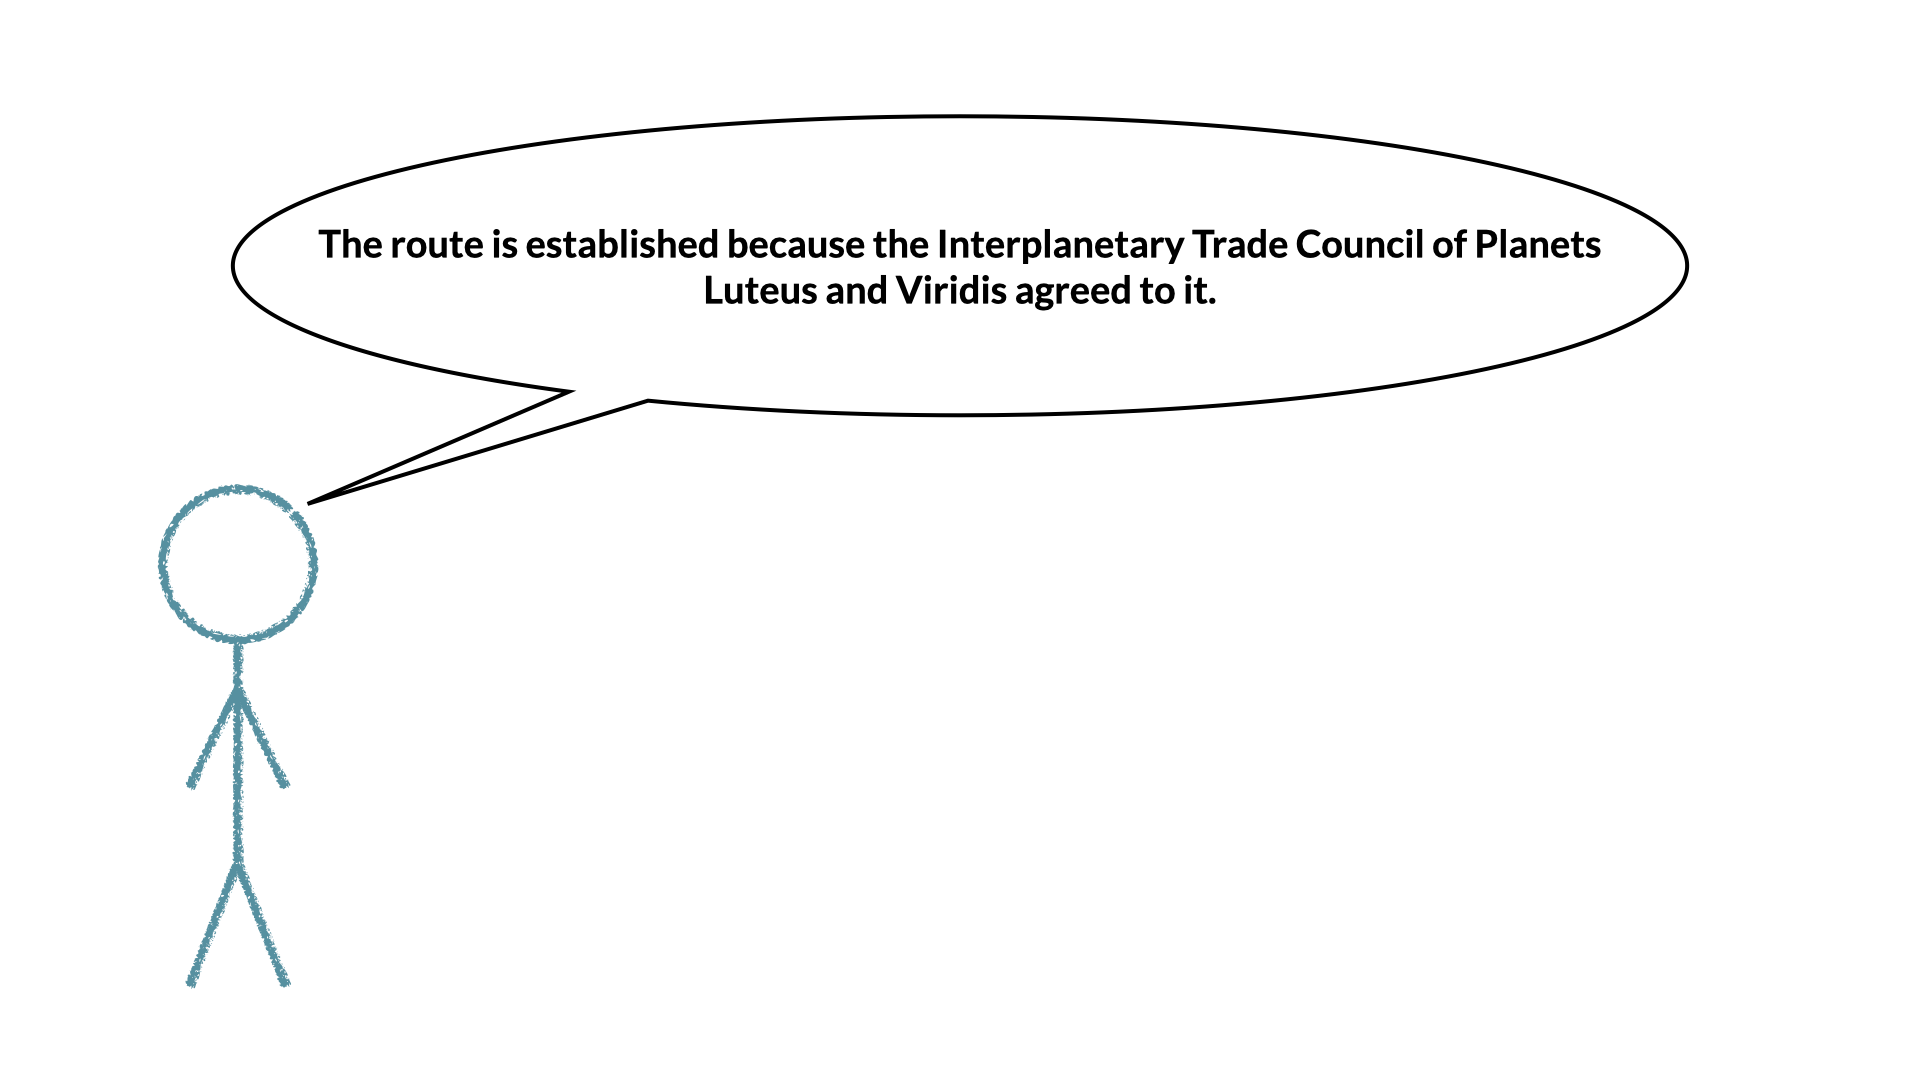
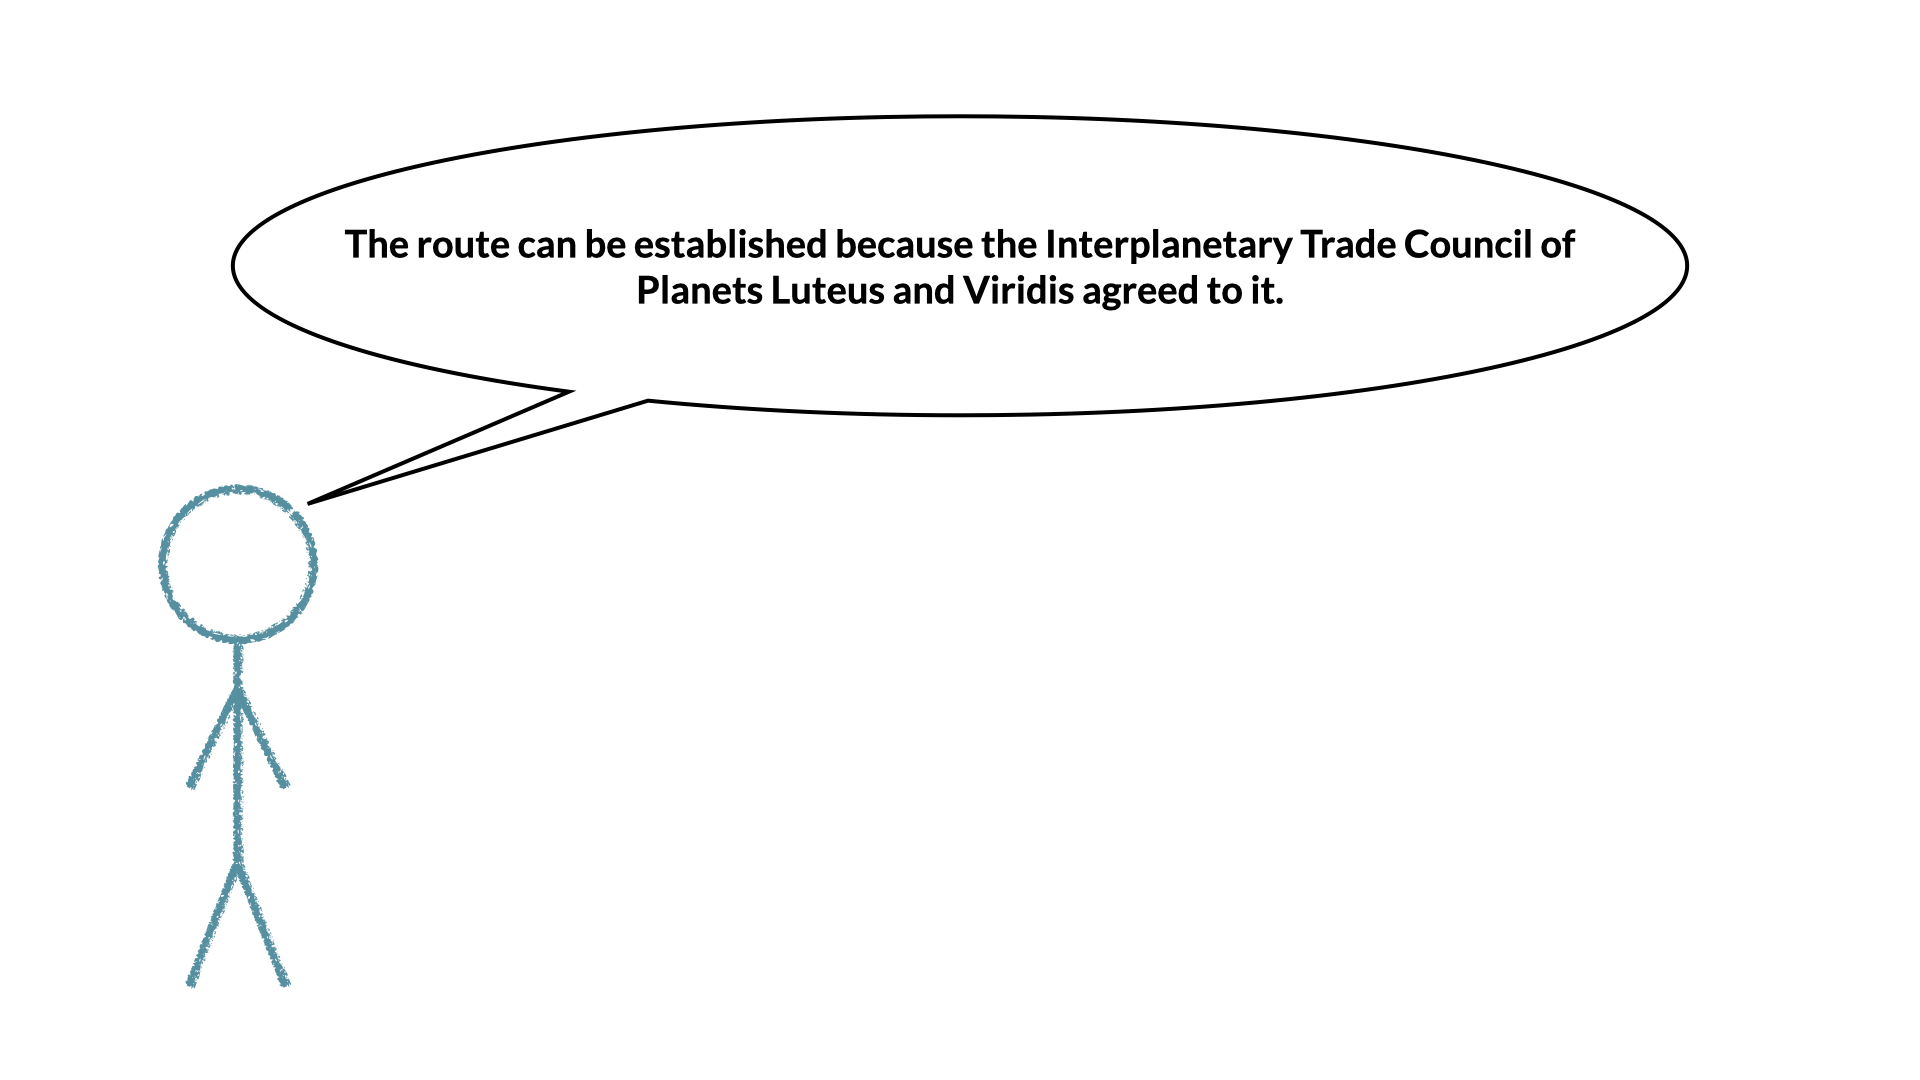
add fixes

Changed region(s): [[0.1562, 0.2139, 0.8438, 0.3056]]

diff --git a/01_Experiments/pretest-01/src/App.vue b/01_Experiments/pretest-01/src/App.vue
@@ -1,7 +1,7 @@
 <template>
   <Experiment title="Plural Cause Pretest 01">
     <InstructionScreen :title="'Welcome'">
-      In this experiment you will ask for your judgement of several statements based on a fictional scenario.
+      In this study, you will be presented with a fictional scenario and asked for your judgement of a sentence.
     </InstructionScreen>
 
     <InstructionScreen>
@@ -14,158 +14,111 @@
       <p>
         This route can only officially be established with approval from the <b>Interplanetary Trade Council of Planets
         Luteus and Viridis</b>.
-        Each planet has a delegate and <b>both must approve</b> the route for it to be authorised.
+        Each planet has a representative and <b>both must approve</b> the route for it to be authorised.
       </p>
 
       <img src="images/council.png"/>
     </InstructionScreen>
 
-
     <template v-for="(trial, i) in comprehension_trials">
-      <Screen>
+      <Screen :key="'comprehension-' + i">
         <Slide>
-          <span style='color:grey'>Remember that the route can only be established with Council approval meaning both members must agree.</span>
+          <div v-if="($magpie.measurements['attempts_' + i] || 0) < 2">
+            <span style='colour:grey'>Remember that the route can only be established with the approval of the Council, meaning both members must agree.</span>
 
+            <p>
+              <img :src="trial.picture"/>
+            </p>
 
-          <p>
-            <img :src="trial.picture"/>
-          </p>
+            <p>
+              Could the trade route be established given these results?
+            </p>
 
-          <p>
-            Could the trade route be established given these results?
-          </p>
+            <ForcedChoiceInput
+                :response.sync="$magpie.measurements['given_response_' + i]"
+                :options="['Yes, it could.','No, it could not.']"
+                @update:response="check_response($magpie.measurements['given_response_' + i], trial.correct_response, i)"/>
 
-          <ForcedChoiceInput
-              :response.sync="$magpie.measurements.comp_response"
-              :options="['Yes, it could.','No, it could not.']"
-              @update:response="$magpie.saveAndNextScreen();"/>
+            <p v-if="$magpie.measurements['attempts_' + i] === 1" style="colour: #B22222; font-weight: bold;">
+              That is incorrect. Please look at the rules at the top of the screen and try again.
+            </p>
+          </div>
+
+          <div v-else style="text-align: center; padding: 20px;">
+            <p>You have answered the comprehension question incorrectly twice.</p>
+            <p><b>Please close the study and click 'Stop Without Completing' on Prolific to return your submission.</b>
+            </p>
+          </div>
 
           <Record
               :data="{
               trial_type : 'comprehension',
-              trial_num : i+1,
+              trial_num : i,
               scenario : trial.scenario,
-              given_response : $magpie.measurements.given_response,
+              given_response : $magpie.measurements['given_response_' + i],
               correct_response: trial.correct_response,
+              failed_comprehension: ($magpie.measurements['attempts_' + i] || 0) >= 2
             }"
           />
-
         </Slide>
       </Screen>
     </template>
-
+    <InstructionScreen>
+      <p>You have passed all comprehension questions! Now we can move onto the main part of the experiment.</p>
+    </InstructionScreen>
 
     <Screen>
       <Slide>
         <p>
-          <p>The day when the new trade route gets decided on finally comes and this is the result:</p>
-          <img src="images/council_yes-yes.png"/>
-          <p>An inhabitant of a third planet in the solar system, Glaucus, describes the result like this:
-          </p>
-          <img :src="granularity === 'coarse' ? 'images/glaucusian_coarse.png' : 'images/glaucusian_fine.png'"/>
+          The long-awaited day of deciding the new trade route finally arrives and here’s the result:
+        </p>
+        <img src="images/council_yes-yes.png"/>
+        <p>An inhabitant of Glaucus, the third planet in this solar system, describes the result like this:
+        </p>
+        <img :src="granularity === 'coarse' ? 'images/glaucusian_coarse.png' : 'images/glaucusian_fine.png'"/>
 
-          <Button v-if="!show_singular"
-                  @click="show_singular = true">
-            Next
-          </Button>
-          <p v-if="show_singular">
-            How likely is that inhabitant of Glaucus to agree with the following statement?
-          </p>
-          <p v-if="show_singular">
-            <b>The route can be established because the representative from {{ singular_cause }} agreed.</b>
-            <RatingInput
-                left="XXX"
-                right="YYY"
-                :response.sync="$magpie.measurements.singular_response"
-            />
-          </p>
+        <Button v-if="!show_singular"
+                @click="show_singular = true">
+          Next
+        </Button>
+        <p v-if="show_singular">
+          How likely is it that this individual would also agree with the following statement?
+        </p>
+        <p v-if="show_singular">
+          <b>The route can be established because the representative from {{ singular_cause }} agreed to it.</b>
+          <RatingInput
+              left="Very unlikely"
+              right="Very likely"
+              :response.sync="$magpie.measurements.singular_response"
+          />
+        </p>
 
-          <p v-if="$magpie.measurements.singular_response > 0">
-            <button @click="$magpie.saveAndNextScreen();">Submit</button>
-          </p>
+        <p v-if="$magpie.measurements.singular_response > 0">
+          <button @click="$magpie.saveAndNextScreen();">Submit</button>
+        </p>
 
-          <Record
-              :data="{
+        <Record
+            :data="{
               trial_type : 'critical',
-              trial_num : 1,
               granularity : granularity,
               singular_cause : singular_cause,
-              // plural_response : $mapgie.measurements.plural_response,
-              // singular_response : $magpie.measurements.singular_response
             }"
-          />
+        />
       </Slide>
     </Screen>
-    <!-- Speaker task template-->
-    <!--    <Screen>-->
-    <!--      <Slide>-->
-    <!--        <p>-->
-    <!--          The route is established because-->
-    <!--          {{-->
-    <!--            granularity === 'coarse' ? 'the Interplanetary Trade Council of planets Luteus and Viridis agreed.' : 'the representative of Luteus and the representative of Viridis agreed.'-->
-    <!--          }}-->
-
-    <!--          <div :style="{-->
-    <!--          opacity: !show_singular ? 1 : 0.4,-->
-    <!--          pointerEvents: !show_singular ? 'auto' : 'none'-->
-    <!--          }">-->
-    <!--            <RatingInput-->
-    <!--                left="XXX"-->
-    <!--                right="YYY"-->
-    <!--                :response.sync="$magpie.measurements.plural_response"-->
-    <!--            />-->
-    <!--          </div>-->
-    <!--        </p>-->
-    <!--        <Button v-if="!show_singular"-->
-    <!--                @click="show_singular = true">-->
-    <!--          Next-->
-    <!--        </Button>-->
-    <!--        <p v-if="show_singular">-->
-
-    <!--        </p>-->
-    <!--        <p v-if="show_singular">-->
-    <!--          The route can be established because the representative from {{ singular_cause }} agreed.-->
-    <!--          <RatingInput-->
-    <!--              left="XXX"-->
-    <!--              right="YYY"-->
-    <!--              :response.sync="$magpie.measurements.singular_response"-->
-    <!--          />-->
-    <!--        </p>-->
-
-    <!--        <p v-if= "$magpie.measurements.singular_response > 0">-->
-    <!--          <button @click="$magpie.saveAndNextScreen();">Submit</button>-->
-    <!--        </p>-->
-
-    <!--        <Record-->
-    <!--            :data="{-->
-    <!--              trial_type : 'critical',-->
-    <!--              trial_num : 1,-->
-    <!--              granularity : granularity,-->
-    <!--              singular_cause : singular_cause,-->
-    <!--              // plural_response : $mapgie.measurements.plural_response,-->
-    <!--              // singular_response : $magpie.measurements.singular_response-->
-    <!--            }"-->
-    <!--        />-->
-    <!--      </Slide>-->
-    <!--    </Screen>-->
 
     <SubmitResultsScreen/>
   </Experiment>
 </template>
 
 <script>
+import Vue from 'vue';
 import _ from 'lodash';
-
-const granularity = _.sample(["coarse", "fine"])
-console.log(granularity);
-
-const singular_cause = _.sample(["Viridis", "Luteus"]);
-console.log(singular_cause);
-
 import comprehension_trials_ordered from './comprehension_trials.csv';
 
+const granularity = _.sample(["coarse", "fine"]);
+const singular_cause = _.sample(["Viridis", "Luteus"]);
 const comprehension_trials = _.shuffle(comprehension_trials_ordered);
-console.log(JSON.parse(JSON.stringify(comprehension_trials_ordered)));
 
 export default {
   name: 'App',
@@ -175,13 +128,27 @@ export default {
       singular_cause: singular_cause,
       comprehension_trials: comprehension_trials,
       show_singular: false,
-
     };
   },
   computed: {
-    // Expose lodash to template code
     _() {
       return _;
+    }
+  },
+  methods: {
+    check_response(given_response, correct_response, index) {
+      if (this.$magpie.measurements['attempts_' + index] === undefined) {
+        Vue.set(this.$magpie.measurements, 'attempts_' + index, 0);
+      }
+      if (given_response === correct_response) {
+        this.$magpie.saveAndNextScreen();
+      } else {
+        this.$magpie.measurements['attempts_' + index] += 1;
+
+        if (this.$magpie.measurements['attempts_' + index] < 2) {
+          this.$magpie.measurements['given_response_' + index] = null;
+        }
+      }
     }
   }
 };

diff --git a/01_Experiments/pretest-01/src/magpie.config.js b/01_Experiments/pretest-01/src/magpie.config.js
@@ -1,11 +1,11 @@
 export default {
-  experimentId: '9',
-  serverUrl: 'https://magpie-demo.herokuapp.com/',
-  socketUrl: 'wss://magpie-demo.herokuapp.com/socket',
+  experimentId: '66',
+  serverUrl: 'https://magpie-cogsciprag.fly.dev',
+  socketUrl: 'wss://magpie-cogsciprag.fly.dev/socket',
   // this will be used in prolific mode
-  completionUrl: 'https://...',
-  contactEmail: '[email redacted]',
+  completionUrl: 'https://app.prolific.com/submissions/complete?cc=C1R1CV4M',
+  contactEmail: '[email redacted]',
   // Either 'debug', 'directLink' or 'prolific'
-  mode: 'debug',
+  mode: 'prolific',
   language: 'en'
 };